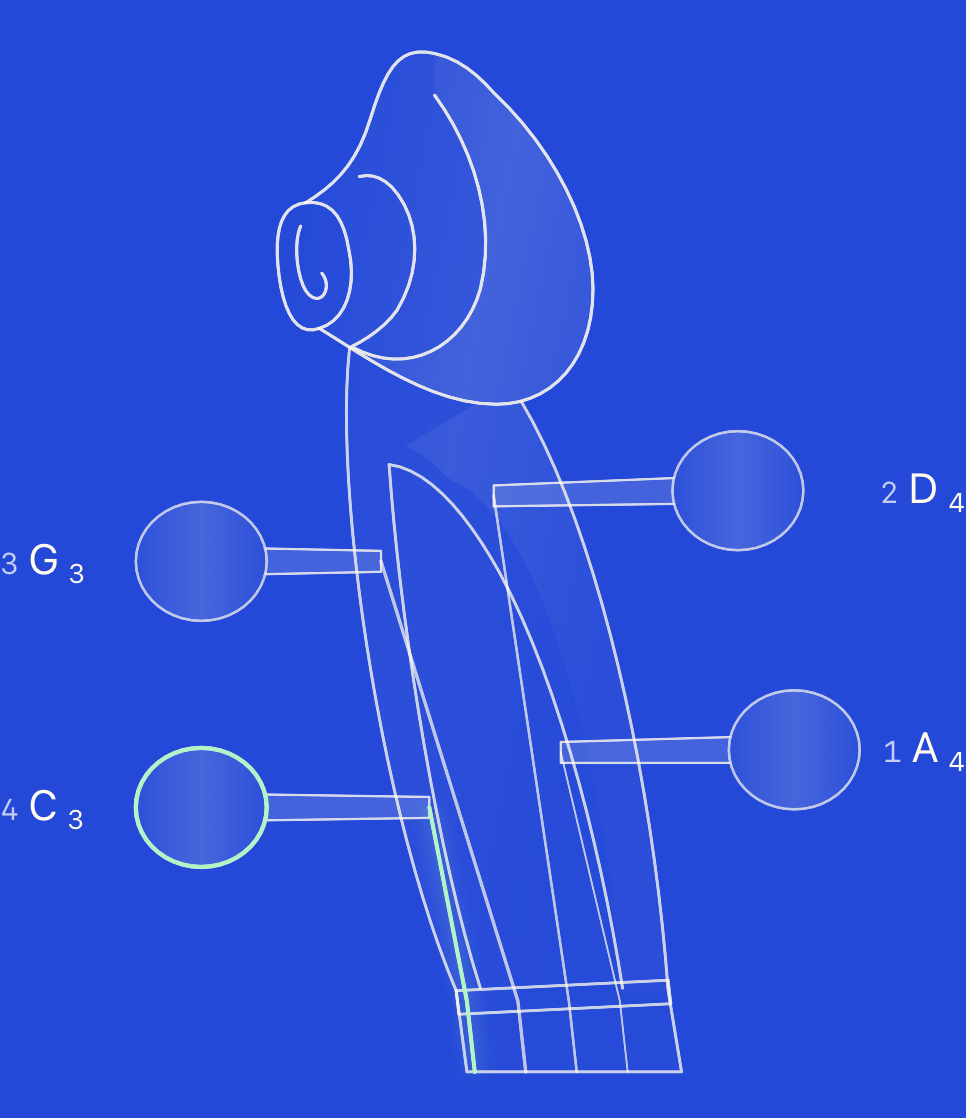
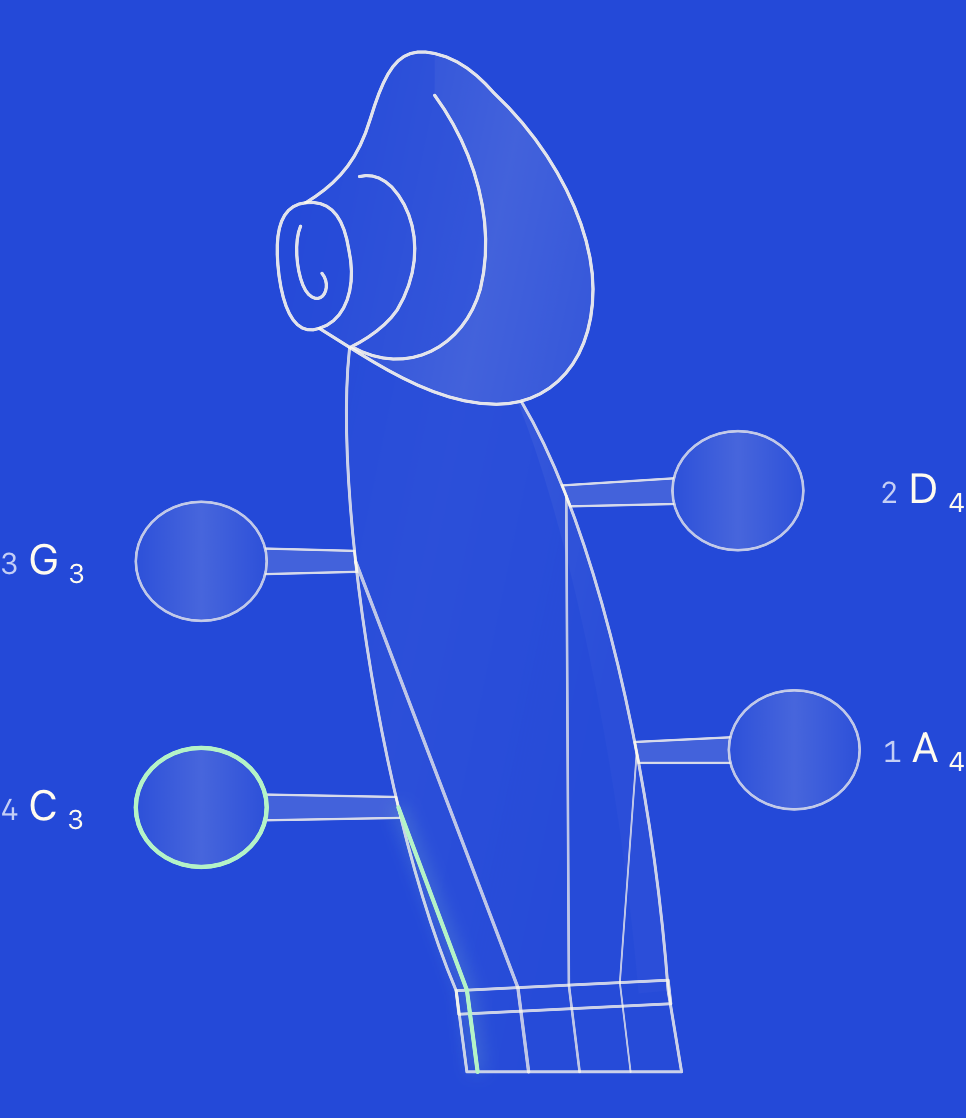
Simplify bowed pegbox contours and connect strings cleanly

Changed region(s): [[0.3416, 0.3953, 0.7143, 0.9732], [0.4658, 0.4258, 0.6832, 0.5474]]

diff --git a/Verification/design-audit/index.html b/Verification/design-audit/index.html
@@ -1,1 +1,1 @@
-<!doctype html><html lang="zh-CN"><meta charset="utf-8"><meta name="viewport" content="width=device-width,initial-scale=1"><title>Clean Tuner · 逐页设计检查</title><style>*{box-sizing:border-box}body{margin:0;background:#f3f3ef;color:#222;font:15px/1.6 system-ui}main{max-width:1400px;margin:auto;padding:32px}h1{font-size:26px;font-weight:500;margin-bottom:8px}p{max-width:850px}nav{display:flex;gap:8px;flex-wrap:wrap;margin:24px 0}button{padding:9px 18px;border:1px solid #ccc;background:white;border-radius:24px;font:inherit;cursor:pointer}button[aria-pressed=true]{background:#2449d8;color:white;border-color:#2449d8}.grid{display:grid;grid-template-columns:repeat(auto-fit,minmax(230px,1fr));gap:28px}article img{width:100%;display:block;border-radius:18px}h2{font-size:18px;font-weight:500;margin:12px 0 4px}article p{margin:0;color:#555}a{color:#2449d8}.extra{margin-top:40px}.extra .grid{grid-template-columns:repeat(auto-fit,minmax(230px,300px))}small{color:#777}</style><main><h1>Clean Tuner · 逐页设计检查</h1><p>以下全部是原生模拟器实拍截图。输入状态来自 iPhone 16e；待机、全部调准状态来自 iPhone SE。检查重点：识别度、比例、线条连接、标签归属和调准反馈。</p><nav aria-label="页面状态"><button aria-pressed="true" data-state="reference">输入中</button><button aria-pressed="false" data-state="idle">待机</button><button aria-pressed="false" data-state="completed">全部调准</button></nav><div class="grid"><article><img class="state" data-instrument="Guitar" src="reference-Guitar.png" alt="吉他调音页"><h2>吉他 · Guitar</h2><p>弦钮完整移到琴头外侧，轴柄水平连接内部轴柱；标签引线留出间隙。</p></article><article><img class="state" data-instrument="Ukulele" src="reference-Ukulele.png" alt="尤克里里调音页"><h2>尤克里里 · Ukulele</h2><p>缩短琴头比例，收紧 2+2 弦钮间距，避免像拉长的吉他。</p></article><article><img class="state" data-instrument="Bass" src="reference-Bass.png" alt="贝斯调音页"><h2>贝斯 · Bass</h2><p>四弦花瓣与斜轴共轴、上下对称；五、六弦左右镜像，弦钮完整位于琴头外。</p></article><article><img class="state" data-instrument="Violin" src="reference-Violin.png" alt="小提琴调音页"><h2>小提琴 · Violin</h2><p>卷轴改为连续卷曲，柔化琴轴箱入口，完成标记去掉重复圆框。</p></article><article><img class="state" data-instrument="Viola" src="reference-Viola.png" alt="中提琴调音页"><h2>中提琴 · Viola</h2><p>沿用提琴家族结构，保留较宽比例与正确音域，不增加装饰线。</p></article><article><img class="state" data-instrument="Cello" src="reference-Cello.png" alt="大提琴调音页"><h2>大提琴 · Cello</h2><p>保留宽琴轴箱、低音八度和短指板；曲线与小提琴同样收顺。</p></article><article><img class="state" data-instrument="Banjo" src="reference-Banjo.png" alt="班卓调音页"><h2>班卓 · Banjo</h2><p>短第五弦保留侧边起点；弦钮一起变绿，完成勾不再叠大圆框。</p></article><article><img class="state" data-instrument="Mandolin" src="reference-Mandolin.png" alt="曼陀铃调音页"><h2>曼陀铃 · Mandolin</h2><p>淡括线明确双弦分组；首页去掉重复 GDAE，保留八个实物弦钮。</p></article></div><section class="extra"><h2>Chromatic 与扩展弦数</h2><p>检查静音、偏移、调准和跨音边界，以及五、六弦贝斯和自定义五弦提琴。</p><div class="grid"><article><img src="chromatic-ring-silent.png" alt="Chromatic · 静音"><h2>Chromatic · 静音</h2></article><article><img src="chromatic-ring--8.png" alt="Chromatic · 偏低"><h2>Chromatic · 偏低</h2></article><article><img src="chromatic-ring-0.png" alt="Chromatic · 调准"><h2>Chromatic · 调准</h2></article><article><img src="chromatic-ring-75.png" alt="Chromatic · 跨音"><h2>Chromatic · 跨音</h2></article><article><img src="headstock-bass-5-strings.png" alt="五弦贝斯"><h2>五弦贝斯</h2></article><article><img src="headstock-bass-6-strings.png" alt="六弦贝斯"><h2>六弦贝斯</h2></article><article><img src="custom-five-string-bowed-headstock.png" alt="自定义五弦提琴"><h2>自定义五弦提琴</h2></article></div></section><p><a href="audit.md">详细检查记录</a></p><small>本次验证覆盖视觉与交互布局；截图使用测试音高，不代表新的真实麦克风精度测量。</small></main><script>document.querySelectorAll('nav button').forEach(b=>b.onclick=()=>{document.querySelectorAll('nav button').forEach(x=>x.setAttribute('aria-pressed',String(x===b)));document.querySelectorAll('img.state').forEach(x=>x.src=b.dataset.state+'-'+x.dataset.instrument+'.png')})</script></html>
+<!doctype html><html lang="zh-CN"><meta charset="utf-8"><meta name="viewport" content="width=device-width,initial-scale=1"><title>Clean Tuner · 逐页设计检查</title><style>*{box-sizing:border-box}body{margin:0;background:#f3f3ef;color:#222;font:15px/1.6 system-ui}main{max-width:1400px;margin:auto;padding:32px}h1{font-size:26px;font-weight:500;margin-bottom:8px}p{max-width:850px}nav{display:flex;gap:8px;flex-wrap:wrap;margin:24px 0}button{padding:9px 18px;border:1px solid #ccc;background:white;border-radius:24px;font:inherit;cursor:pointer}button[aria-pressed=true]{background:#2449d8;color:white;border-color:#2449d8}.grid{display:grid;grid-template-columns:repeat(auto-fit,minmax(230px,1fr));gap:28px}article img{width:100%;display:block;border-radius:18px}h2{font-size:18px;font-weight:500;margin:12px 0 4px}article p{margin:0;color:#555}a{color:#2449d8}.extra{margin-top:40px}.extra .grid{grid-template-columns:repeat(auto-fit,minmax(230px,300px))}small{color:#777}</style><main><h1>Clean Tuner · 逐页设计检查</h1><p>以下全部是原生模拟器实拍截图。输入状态来自 iPhone 16e；待机、全部调准状态来自 iPhone SE。检查重点：识别度、比例、线条连接、标签归属和调准反馈。</p><nav aria-label="页面状态"><button aria-pressed="true" data-state="reference">输入中</button><button aria-pressed="false" data-state="idle">待机</button><button aria-pressed="false" data-state="completed">全部调准</button></nav><div class="grid"><article><img class="state" data-instrument="Guitar" src="reference-Guitar.png" alt="吉他调音页"><h2>吉他 · Guitar</h2><p>弦钮完整移到琴头外侧，轴柄水平连接内部轴柱；标签引线留出间隙。</p></article><article><img class="state" data-instrument="Ukulele" src="reference-Ukulele.png" alt="尤克里里调音页"><h2>尤克里里 · Ukulele</h2><p>缩短琴头比例，收紧 2+2 弦钮间距，避免像拉长的吉他。</p></article><article><img class="state" data-instrument="Bass" src="reference-Bass.png" alt="贝斯调音页"><h2>贝斯 · Bass</h2><p>四弦花瓣与斜轴共轴、上下对称；五、六弦左右镜像，弦钮完整位于琴头外。</p></article><article><img class="state" data-instrument="Violin" src="reference-Violin.png" alt="小提琴调音页"><h2>小提琴 · Violin</h2><p>移除与弦线交叉的内侧拱线；侧面只留窄阴影，琴轴柄从外壁自然接出。</p></article><article><img class="state" data-instrument="Viola" src="reference-Viola.png" alt="中提琴调音页"><h2>中提琴 · Viola</h2><p>保留较宽比例，去掉交叉拱线；琴轴柄与箱壁自然连接。</p></article><article><img class="state" data-instrument="Cello" src="reference-Cello.png" alt="大提琴调音页"><h2>大提琴 · Cello</h2><p>保留宽琴轴箱、低音八度和短指板，简化内部交叉描边与轴柄连接。</p></article><article><img class="state" data-instrument="Banjo" src="reference-Banjo.png" alt="班卓调音页"><h2>班卓 · Banjo</h2><p>短第五弦保留侧边起点；弦钮一起变绿，完成勾不再叠大圆框。</p></article><article><img class="state" data-instrument="Mandolin" src="reference-Mandolin.png" alt="曼陀铃调音页"><h2>曼陀铃 · Mandolin</h2><p>淡括线明确双弦分组；首页去掉重复 GDAE，保留八个实物弦钮。</p></article></div><section class="extra"><h2>Chromatic 与扩展弦数</h2><p>检查静音、偏移、调准和跨音边界，以及五、六弦贝斯和自定义五弦提琴。</p><div class="grid"><article><img src="chromatic-ring-silent.png" alt="Chromatic · 静音"><h2>Chromatic · 静音</h2></article><article><img src="chromatic-ring--8.png" alt="Chromatic · 偏低"><h2>Chromatic · 偏低</h2></article><article><img src="chromatic-ring-0.png" alt="Chromatic · 调准"><h2>Chromatic · 调准</h2></article><article><img src="chromatic-ring-75.png" alt="Chromatic · 跨音"><h2>Chromatic · 跨音</h2></article><article><img src="headstock-bass-5-strings.png" alt="五弦贝斯"><h2>五弦贝斯</h2></article><article><img src="headstock-bass-6-strings.png" alt="六弦贝斯"><h2>六弦贝斯</h2></article><article><img src="custom-five-string-bowed-headstock.png" alt="自定义五弦提琴"><h2>自定义五弦提琴</h2></article></div></section><p><a href="audit.md">详细检查记录</a></p><small>本次验证覆盖视觉与交互布局；截图使用测试音高，不代表新的真实麦克风精度测量。</small></main><script>document.querySelectorAll('nav button').forEach(b=>b.onclick=()=>{document.querySelectorAll('nav button').forEach(x=>x.setAttribute('aria-pressed',String(x===b)));document.querySelectorAll('img.state').forEach(x=>x.src=b.dataset.state+'-'+x.dataset.instrument+'.png')})</script></html>

diff --git a/TheTuner/InstrumentArtwork.swift b/TheTuner/InstrumentArtwork.swift
@@ -160,11 +160,14 @@ struct InstrumentHeadDrawing: View {
                     if instrument.bowed {
                         let radius = 25 * layout.artScale
                         let shaftEnd = CGPoint(x: handle.x + (side ? radius * 0.8 : -radius * 0.8), y: handle.y)
+                        let referenceY = (post.y - layout.artOrigin.y) / layout.artScale
+                        let upperWall = BowedHeadstockArtwork.wallPoint(at: referenceY - 4, left: side)
+                        let lowerWall = BowedHeadstockArtwork.wallPoint(at: referenceY + 4, left: side)
                         var shaft = Path()
-                        shaft.move(to: CGPoint(x: post.x, y: post.y - 4 * layout.artScale))
+                        shaft.move(to: layout.artPoint(upperWall.x, upperWall.y))
                         shaft.addLine(to: CGPoint(x: shaftEnd.x, y: shaftEnd.y - 5 * layout.artScale))
                         shaft.addLine(to: CGPoint(x: shaftEnd.x, y: shaftEnd.y + 5 * layout.artScale))
-                        shaft.addLine(to: CGPoint(x: post.x, y: post.y + 4 * layout.artScale)); shaft.closeSubpath()
+                        shaft.addLine(to: layout.artPoint(lowerWall.x, lowerWall.y)); shaft.closeSubpath()
                         context.fill(shaft, with: .color(style.ink.opacity(0.14))); stroke(shaft, style.ink.opacity(0.8), 0.8)
                         let knob = Path(ellipseIn: CGRect(x: handle.x - radius, y: handle.y - radius * 0.91,
                                                         width: radius * 2, height: radius * 1.82))
@@ -199,10 +202,22 @@ struct InstrumentHeadDrawing: View {
 
                     }
                     let endX = layout.stringX(i, member: member)
-                    var string = Path(); string.move(to: post)
-                    // The drone starts at the fifth fret; it never reaches the nut or peghead.
-                    if !drone { string.addLine(to: CGPoint(x: endX, y: p(0, layout.nutY).y + 4 * layout.artScale)) }
-                    string.addLine(to: CGPoint(x: endX + (instrument.bowed ? 3 * layout.artScale : 0), y: p(0, 1).y))
+                    var string = Path()
+                    if instrument.bowed {
+                        // Show the string emerging at the peg, without a loose end on the face.
+                        let referenceY = (post.y - layout.artOrigin.y) / layout.artScale
+                        let wall = BowedHeadstockArtwork.wallPoint(at: referenceY, left: side)
+                        string.move(to: layout.artPoint(wall.x, wall.y))
+                        let referenceX = (endX - layout.artOrigin.x) / (layout.artScale * layout.breadth)
+                        let nutY = 369 - 4 * (referenceX - 190) / 79
+                        string.addLine(to: layout.artPoint(referenceX, nutY))
+                        string.addLine(to: layout.artPoint(referenceX + 4, 400))
+                    } else {
+                        string.move(to: post)
+                        // The drone starts at the fifth fret; it never reaches the nut or peghead.
+                        if !drone { string.addLine(to: CGPoint(x: endX, y: p(0, layout.nutY).y + 4 * layout.artScale)) }
+                        string.addLine(to: CGPoint(x: endX, y: p(0, 1).y))
+                    }
                     if selected == i {
                         context.drawLayer { glow in
                             glow.addFilter(.blur(radius: 3)); glow.stroke(string, with: .color(color.opacity(0.2)), lineWidth: 4)

diff --git a/TheTuner/BowedHeadstockArtwork.swift b/TheTuner/BowedHeadstockArtwork.swift
@@ -36,16 +36,43 @@ enum BowedHeadstockArtwork {
     // connected. Shaded faces use those same boundaries rather than old carved slices.
     static let box: [Surface] = [
         Surface("M 151 118 C 143 170 161 299 190 369 L 194 400 L 274 400 L 269 369 C 263 284 241 184 210 137 Z", 0.035),
-        Surface("M 210 137 C 241 184 263 284 269 369 L 252 370 C 245 277 221 187 188 174 C 183 169 177 163 171 161 Z", 0.10)
+        Surface("M 210 137 C 241 184 263 284 269 369 L 258 370 C 251 286 232 188 210 137 Z", 0.10)
     ]
     static let scroll: [Surface] = [
         Surface("M 134 68 C 145 61 153 53 158 36 C 164 16 169 8 182 11 C 191 13 198 19 204 26 C 227 48 241 78 241 101 C 241 128 226 145 205 145 C 181 145 158 128 139 116 Z", 0.075),
         Surface("M 182 11 C 191 13 198 19 204 26 C 227 48 241 78 241 101 C 241 128 226 145 205 145 C 184 145 165 133 151 123 C 172 135 193 123 199 101 C 205 76 197 48 182 27 Z", 0.14),
         Surface("M 134 68 C 124 69 122 80 124 96 C 126 111 131 119 139 116 C 149 113 153 100 150 86 C 148 73 143 67 134 68 Z", 0.035)
     ]
+    private static let leftWall = (start: CGPoint(x: 151, y: 118), c1: CGPoint(x: 143, y: 170),
+                                   c2: CGPoint(x: 161, y: 299), end: CGPoint(x: 190, y: 369))
+    private static let rightWall = (start: CGPoint(x: 210, y: 137), c1: CGPoint(x: 241, y: 184),
+                                    c2: CGPoint(x: 263, y: 284), end: CGPoint(x: 269, y: 369))
+    private static var boxOutline: Path {
+        var path = Path()
+        path.move(to: leftWall.start)
+        path.addCurve(to: leftWall.end, control1: leftWall.c1, control2: leftWall.c2)
+        path.addLine(to: CGPoint(x: 194, y: 400)); path.addLine(to: CGPoint(x: 274, y: 400))
+        path.addLine(to: rightWall.end)
+        path.addCurve(to: rightWall.start, control1: rightWall.c2, control2: rightWall.c1)
+        return path
+    }
+    // Peg shafts emerge at the visible wall; their hidden ends must not cross the face.
+    static func wallPoint(at y: CGFloat, left: Bool) -> CGPoint {
+        let wall = left ? leftWall : rightWall
+        func sample(_ t: CGFloat) -> CGPoint {
+            let u = 1 - t
+            return CGPoint(x: u*u*u*wall.start.x + 3*u*u*t*wall.c1.x + 3*u*t*t*wall.c2.x + t*t*t*wall.end.x,
+                           y: u*u*u*wall.start.y + 3*u*u*t*wall.c1.y + 3*u*t*t*wall.c2.y + t*t*t*wall.end.y)
+        }
+        var low: CGFloat = 0, high: CGFloat = 1
+        for _ in 0..<24 {
+            let middle = (low + high) / 2
+            if sample(middle).y < y { low = middle } else { high = middle }
+        }
+        return sample((low + high) / 2)
+    }
     static let boxEdges: [Path] = [
-        contour("M 151 118 C 143 170 161 299 190 369 L 194 400 L 274 400 L 269 369 C 263 284 241 184 210 137"),
-        contour("M 165 168 C 180 170 194 187 206 209 C 228 250 244 315 252 368 M 165 168 C 169 227 182 313 199 368"),
+        boxOutline,
         contour("M 190 369 L 269 365 L 270 374 L 191 378 Z")
     ]
     static let scrollEdges: [Path] = [

diff --git a/Verification/design-audit/audit.md b/Verification/design-audit/audit.md
@@ -43,3 +43,11 @@
 - 提琴家族：琴轴钮原本在琴轴箱外，本次保留侧向琴轴的结构。
 
 本轮验证：八种乐器弦点击检查通过；八种琴头与五／六弦贝斯最终截图测试通过；SE 全部 16 个待机／完成状态测试通过。已放大复查吉他、尤克里里、贝斯、班卓、曼陀铃的弦钮与引线，最终签名构建通过并已更新到配对 iPhone。
+
+## 提琴琴轴箱交叉线复查
+
+参考用户局部截图，移除琴轴箱内部额外的拱形描边；它与真实弦线交叉并形成尖角。将三角侧面收为贴外缘的窄阴影，保留卷轴和外轮廓。琴轴柄的可见起点改为同一条箱壁曲线，不再从箱内穿过正面与外缘。小提琴、中提琴、大提琴共用此修正，自定义弦数也沿相同箱壁连接。
+
+截图复查后，将可见弦头接到琴轴与箱壁的同一交点，避免移除遮挡后留下悬空线头；四根弦在斜向琴枕上各自折入短指板。
+
+提琴本轮验证：最终琴头截图、自定义五弦琴轴点击检查与 SE 全部待机／完成状态测试通过。已检查三种提琴放大截图，签名构建与手机安装成功。
